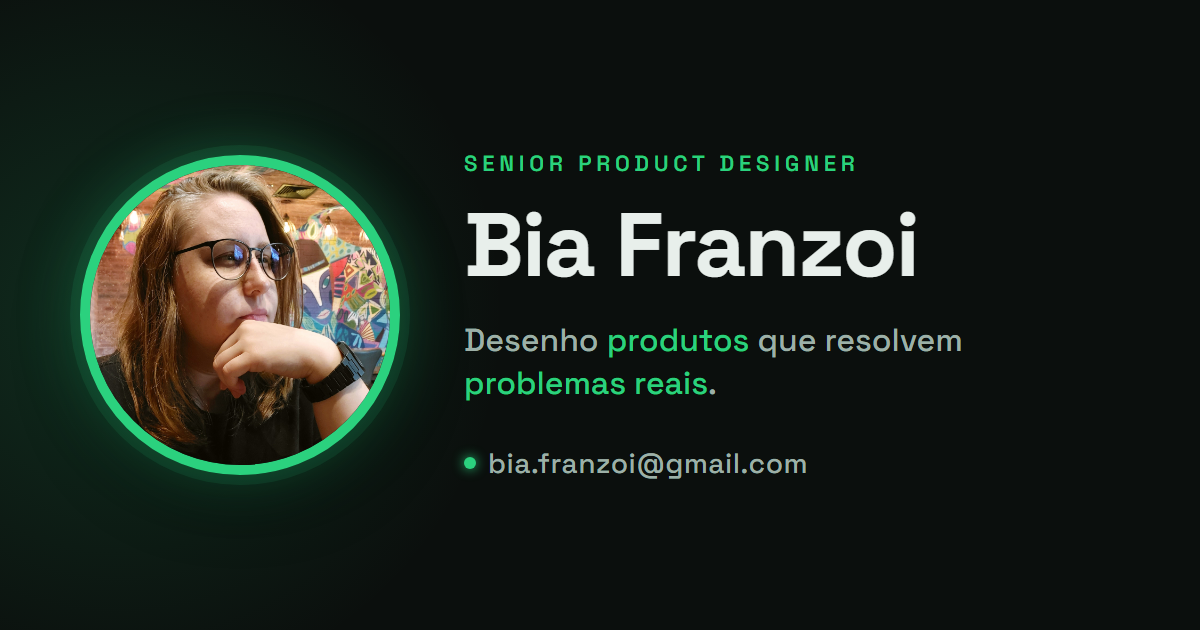
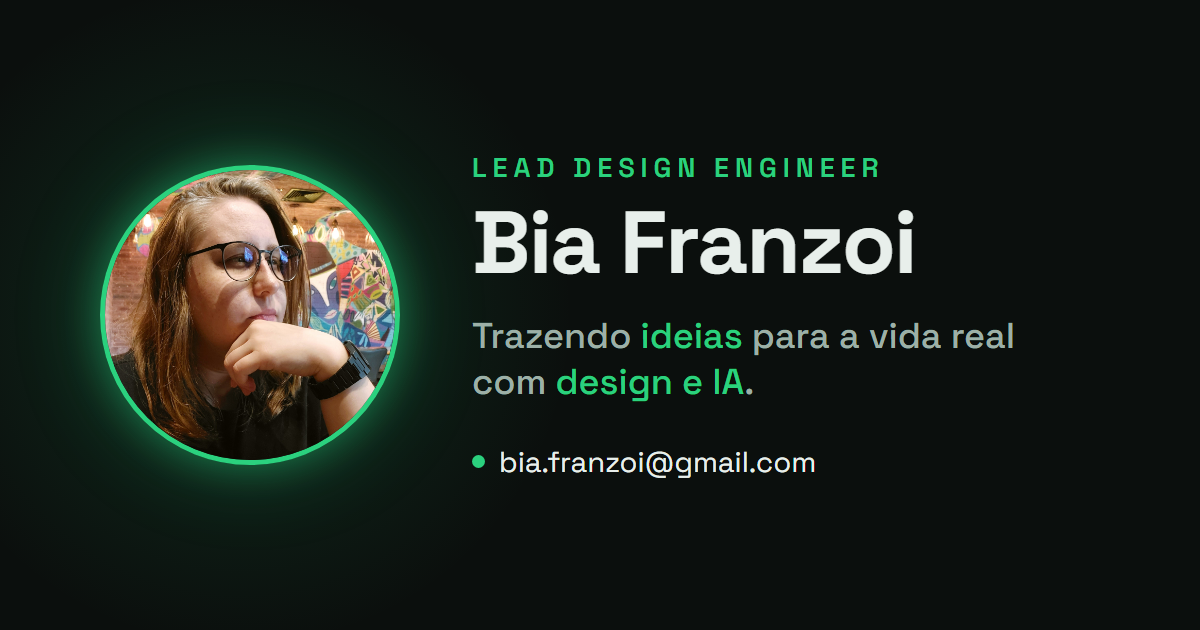
Ajustes na og-image

diff --git a/projeto/compraki/index.html b/projeto/compraki/index.html
@@ -36,7 +36,7 @@
     />
     <meta property="og:image:width" content="1200" />
     <meta property="og:image:height" content="630" />
-    <meta property="og:image:alt" content="Bia Franzoi — Senior Product Designer" />
+    <meta property="og:image:alt" content="Bia Franzoi — Lead Design Engineer" />
     <meta property="og:locale" content="pt_BR" />
 
     <!-- Twitter / X -->
@@ -47,7 +47,7 @@
       name="twitter:image"
       content="https://biafranzoi.github.io/work/src/img/og-image.png"
     />
-    <meta name="twitter:image:alt" content="Bia Franzoi — Senior Product Designer" />
+    <meta name="twitter:image:alt" content="Bia Franzoi — Lead Design Engineer" />
 
     <link rel="icon" type="image/png" href="../../src/img/biafranzoi-logo.png" />
 

diff --git a/projeto/destinoideal/index.html b/projeto/destinoideal/index.html
@@ -36,7 +36,7 @@
     />
     <meta property="og:image:width" content="1200" />
     <meta property="og:image:height" content="630" />
-    <meta property="og:image:alt" content="Bia Franzoi — Senior Product Designer" />
+    <meta property="og:image:alt" content="Bia Franzoi — Lead Design Engineer" />
     <meta property="og:locale" content="pt_BR" />
 
     <!-- Twitter / X -->
@@ -47,7 +47,7 @@
       name="twitter:image"
       content="https://biafranzoi.github.io/work/src/img/og-image.png"
     />
-    <meta name="twitter:image:alt" content="Bia Franzoi — Senior Product Designer" />
+    <meta name="twitter:image:alt" content="Bia Franzoi — Lead Design Engineer" />
 
     <link rel="icon" type="image/png" href="../../src/img/biafranzoi-logo.png" />
 

diff --git a/projeto/digidoc/index.html b/projeto/digidoc/index.html
@@ -36,7 +36,7 @@
     />
     <meta property="og:image:width" content="1200" />
     <meta property="og:image:height" content="630" />
-    <meta property="og:image:alt" content="Bia Franzoi — Senior Product Designer" />
+    <meta property="og:image:alt" content="Bia Franzoi — Lead Design Engineer" />
     <meta property="og:locale" content="pt_BR" />
 
     <!-- Twitter / X -->
@@ -47,7 +47,7 @@
       name="twitter:image"
       content="https://biafranzoi.github.io/work/src/img/og-image.png"
     />
-    <meta name="twitter:image:alt" content="Bia Franzoi — Senior Product Designer" />
+    <meta name="twitter:image:alt" content="Bia Franzoi — Lead Design Engineer" />
 
     <link rel="icon" type="image/png" href="../../src/img/biafranzoi-logo.png" />
 

diff --git a/projeto/flashback/index.html b/projeto/flashback/index.html
@@ -36,7 +36,7 @@
     />
     <meta property="og:image:width" content="1200" />
     <meta property="og:image:height" content="630" />
-    <meta property="og:image:alt" content="Bia Franzoi — Senior Product Designer" />
+    <meta property="og:image:alt" content="Bia Franzoi — Lead Design Engineer" />
     <meta property="og:locale" content="pt_BR" />
 
     <!-- Twitter / X -->
@@ -47,7 +47,7 @@
       name="twitter:image"
       content="https://biafranzoi.github.io/work/src/img/og-image.png"
     />
-    <meta name="twitter:image:alt" content="Bia Franzoi — Senior Product Designer" />
+    <meta name="twitter:image:alt" content="Bia Franzoi — Lead Design Engineer" />
 
     <link rel="icon" type="image/png" href="../../src/img/biafranzoi-logo.png" />
 

diff --git a/projeto/meucrediario/index.html b/projeto/meucrediario/index.html
@@ -36,7 +36,7 @@
     />
     <meta property="og:image:width" content="1200" />
     <meta property="og:image:height" content="630" />
-    <meta property="og:image:alt" content="Bia Franzoi — Senior Product Designer" />
+    <meta property="og:image:alt" content="Bia Franzoi — Lead Design Engineer" />
     <meta property="og:locale" content="pt_BR" />
 
     <!-- Twitter / X -->
@@ -47,7 +47,7 @@
       name="twitter:image"
       content="https://biafranzoi.github.io/work/src/img/og-image.png"
     />
-    <meta name="twitter:image:alt" content="Bia Franzoi — Senior Product Designer" />
+    <meta name="twitter:image:alt" content="Bia Franzoi — Lead Design Engineer" />
 
     <link rel="icon" type="image/png" href="../../src/img/biafranzoi-logo.png" />
 

diff --git a/projeto/nebula/index.html b/projeto/nebula/index.html
@@ -36,7 +36,7 @@
     />
     <meta property="og:image:width" content="1200" />
     <meta property="og:image:height" content="630" />
-    <meta property="og:image:alt" content="Bia Franzoi — Senior Product Designer" />
+    <meta property="og:image:alt" content="Bia Franzoi — Lead Design Engineer" />
     <meta property="og:locale" content="pt_BR" />
 
     <!-- Twitter / X -->
@@ -47,7 +47,7 @@
       name="twitter:image"
       content="https://biafranzoi.github.io/work/src/img/og-image.png"
     />
-    <meta name="twitter:image:alt" content="Bia Franzoi — Senior Product Designer" />
+    <meta name="twitter:image:alt" content="Bia Franzoi — Lead Design Engineer" />
 
     <link rel="icon" type="image/png" href="../../src/img/biafranzoi-logo.png" />
 

diff --git a/index.html b/index.html
@@ -33,7 +33,7 @@
     <meta property="og:image:height" content="630" />
     <meta
       property="og:image:alt"
-      content="Bia Franzoi — Senior Product Designer"
+      content="Bia Franzoi — Lead Design Engineer"
     />
     <meta property="og:locale" content="pt_BR" />
 
@@ -50,7 +50,7 @@
     />
     <meta
       name="twitter:image:alt"
-      content="Bia Franzoi — Senior Product Designer"
+      content="Bia Franzoi — Lead Design Engineer"
     />
 
     <link rel="icon" type="image/png" href="src/img/biafranzoi-logo.png" />

diff --git a/README.md b/README.md
@@ -1,12 +1,12 @@
-# Bia Franzoi — Senior Product Designer
+# Bia Franzoi — Lead Design Engineer
 
 **Português** · [English ↓](#english)
 
-**Desenho produtos que resolvem problemas reais.**
+**Trazendo ideias para a vida real com design e IA.**
 
-Mais de 12 anos de vivência no ecossistema de tecnologia e design. Pós-graduada
-em UX Design pela PUCRS. Domínio completo de ponta a ponta — do design ao
-handoff e front-end, em sintonia com metodologias ágeis.
+Mais de 12 anos no ecossistema de tecnologia e design. Pós-graduada em UX pela
+PUCRS. A IA é minha parceira de execução para tirar ideias do papel com
+pesquisa, design, front-end e deploy.
 
 ## Contato
 
@@ -32,11 +32,11 @@ Inclui temas claro, escuro e alto contraste, e conteúdo em português e inglês
 
 ## English
 
-**I design products that solve real problems.**
+**Bringing ideas to life with design and AI.**
 
-More than 12 years of experience in the technology and design ecosystem.
-Postgraduate in UX Design from PUCRS. Full end-to-end mastery — from design to
-handoff and front-end, in sync with agile methodologies.
+More than 12 years in the technology and design ecosystem. Postgraduate in UX
+from PUCRS. AI is my execution partner for getting ideas off the ground:
+research, design, front-end, and deploy.
 
 ### Contact
 
